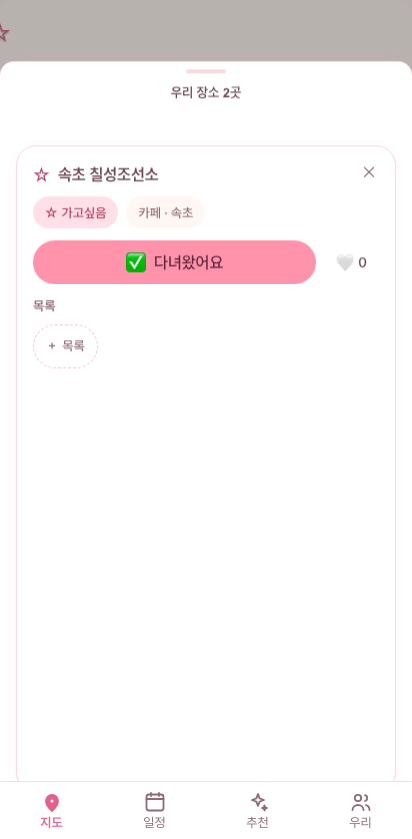
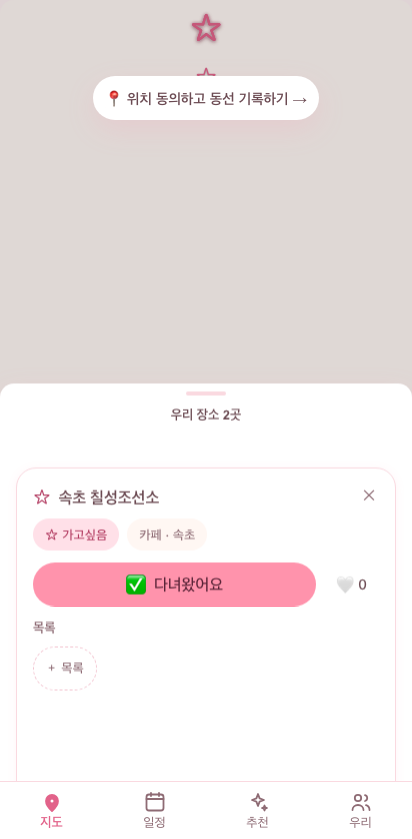
fix(map): 풀블리드 + 로고/축척 하단 + 내 위치 UX 전면 개선
- 풀블리드 라우트는 셸 safe-top 패딩 제거(상단 빈 띠 제거) — 오버레이가 자체 오프셋
- 네이버 로고/축척 BOTTOM(상단은 Dynamic Island·검색 오버레이에 가림), SDK 컨트롤
  z-index를 지도 안에 격리(시트 뚫고 뜨던 문제)
- 지도 하단 예약을 시트 실측(--map-bottom-reserve)으로 발행 — 탭바 이중계산으로
  지도~시트 사이 배경 공백이 생기던 버그 수정
- 내 위치: fitBounds(내위치+저장장소, 도 단위로 벌어짐) → 내 위치 중심 + 줌 15,
  버튼은 지도 우하단 고정 + 표준 크로스헤어 아이콘(📍 마커 혼동 제거)
- 앱 시작 기본 = 내 위치(denied만 제외), 네이티브는 WebView geolocation 대신
  bg-geo 원샷 위치 사용(origin 프롬프트/차단 우회)
- e2e 스냅샷 베이스라인 갱신(map-selected)

diff --git a/src/lib/geo/currentPosition.ts b/src/lib/geo/currentPosition.ts
@@ -24,10 +24,43 @@ function reasonForCode(code: number): 'denied' | 'unavailable' | 'timeout' {
   return 'unavailable'
 }
 
-export function getCurrentPosition(opts: Options = {}): Promise<GeoResult> {
-  const geo = resolveGeo(opts.geo)
-  if (!geo) return Promise.resolve({ ok: false, reason: 'unsupported' })
+// 네이티브(Capacitor): WebView navigator.geolocation은 origin 프롬프트/차단이 얽혀 신뢰 불가 →
+// 이미 설치된 bg-geo 플러그인의 원샷 getCurrentPosition을 쓴다(앱 권한 프롬프트와 자연 연동).
+// 실패/미지원이면 null을 돌려 웹 경로로 폴백.
+async function nativeCurrentPosition(timeoutMs: number): Promise<GeoResult | null> {
+  const { isNativePlatform } = await import('@/lib/platform')
+  if (!isNativePlatform()) return null
+  const { loadBgGeo } = await import('@/lib/journey/recorder')
+  const plugin = await loadBgGeo()
+  if (!plugin?.getCurrentPosition) return null
+  try {
+    const loc = await plugin.getCurrentPosition({
+      timeout: Math.max(1, Math.ceil(timeoutMs / 1000)), // bg-geo는 초 단위
+      maximumAge: 60_000,
+      desiredAccuracy: 40,
+      samples: 1,
+    })
+    return {
+      ok: true,
+      lat: loc.coords.latitude,
+      lng: loc.coords.longitude,
+      accuracy: loc.coords.accuracy ?? 50,
+    }
+  } catch (code) {
+    // bg-geo LocationError: 1=TIMEOUT, 그 외(0 UNKNOWN/2 NETWORK/499 CANCELLED)는 unavailable로 정규화.
+    return { ok: false, reason: code === 1 ? 'timeout' : 'unavailable' }
+  }
+}
+
+export async function getCurrentPosition(opts: Options = {}): Promise<GeoResult> {
   const timeout = opts.timeoutMs ?? 8000
+  // 테스트/호출측이 geo를 주입하면 그대로 웹 경로(순수성 유지). 미주입 시에만 네이티브 우선.
+  if (opts.geo === undefined) {
+    const native = await nativeCurrentPosition(timeout)
+    if (native) return native
+  }
+  const geo = resolveGeo(opts.geo)
+  if (!geo) return { ok: false, reason: 'unsupported' }
   return new Promise<GeoResult>((resolve) => {
     geo.getCurrentPosition(
       (pos) =>
@@ -62,7 +95,9 @@ export async function getPermissionState(
   }
 }
 
-/** 로드 시 자동 locate 여부 — granted일 때만(추가 프롬프트 회피, spec §3.5). 순수. */
+/** 로드 시 자동 locate 여부 — denied만 제외. 앱 시작 기본 화면 = 내 위치(요구사항).
+ * prompt 상태도 시도한다 — 지도 첫 화면은 위치 프롬프트가 맥락에 맞는 지점이고(§8 맥락 요청),
+ * 네이티브 앱은 동선 기록 흐름에서 이미 위치 권한 맥락을 가진다. 순수. */
 export function shouldAutoLocate(state: PermissionState): boolean {
-  return state === 'granted'
+  return state !== 'denied'
 }

diff --git a/src/components/map/NaverMap.tsx b/src/components/map/NaverMap.tsx
@@ -17,6 +17,8 @@ import styles from './NaverMap.module.css'
 // 마커는 색만이 아니라 모양/라벨로도 구분(§8 접근성): 둘 다 찜=♥(퍼플), 그 외=★(브랜드).
 // 가본 곳(채운 별+체크) 구분은 P3.
 const DEFAULT_CENTER = { lat: 37.5665, lng: 126.978 } // 서울 시청(빈 상태 기본 중심)
+// 내 위치 이동 시 줌 — 동네 수준(15). fitBounds(내위치+저장장소)는 도(道) 단위로 벌어져 금지.
+const LOCATE_ZOOM = 15
 
 type MarkerPlace = PlaceRow & { wish?: WishStatus }
 
@@ -112,11 +114,12 @@ export function NaverMap({
       mapRef.current = new nv.maps.Map(elRef.current, {
         center: new nv.maps.LatLng(DEFAULT_CENTER.lat, DEFAULT_CENTER.lng),
         zoom: 11,
-        // 로고는 ToS상 유지(필수). 컨트롤을 상단으로 옮겨 하단 시트와 안 겹치게(spec R1.3).
+        // 로고는 ToS상 유지(필수). 지도가 상태바 밑까지 풀블리드가 되면서 상단은 Dynamic Island·
+        // 검색 오버레이에 가리므로 하단으로 — mapWrap의 peek 인셋 덕에 peek 시트 바로 위에 보인다(research 01 §10).
         logoControl: true,
-        logoControlOptions: { position: nv.maps.Position.TOP_LEFT },
+        logoControlOptions: { position: nv.maps.Position.BOTTOM_LEFT },
         scaleControl: true,
-        scaleControlOptions: { position: nv.maps.Position.TOP_RIGHT },
+        scaleControlOptions: { position: nv.maps.Position.BOTTOM_RIGHT },
         mapDataControl: false,
       })
       setReady(true)
@@ -299,8 +302,9 @@ export function NaverMap({
     // eslint-disable-next-line react-hooks/exhaustive-deps
   }, [places, ready])
 
-  // 내 위치 self-dot(파란 점) + accuracy 원을 그리고 self+places로 fitBounds(spec §3.5).
-  // 마커/원은 1개만 — 위치/반경만 갱신(재생성 금지). places의 좌표 유효 핀까지 bounds에 포함.
+  // 내 위치 self-dot + accuracy 원을 그리고 '내 위치를 중심으로 가깝게'(LOCATE_ZOOM) 잡는다.
+  // ★ self+places fitBounds 금지 — 저장장소가 멀면(서울~강릉) 도 단위로 벌어져 내 위치가 안 보인다.
+  // 마커/원은 1개만 — 위치/반경만 갱신(재생성 금지).
   const showSelf = (lat: number, lng: number, accuracy: number) => {
     const nv = window.naver
     const map = mapRef.current
@@ -333,10 +337,8 @@ export function NaverMap({
         clickable: false,
         zIndex: 0,
       })
-    const pts = places.filter((p) => typeof p.lat === 'number' && typeof p.lng === 'number')
-    const b = new nv.maps.LatLngBounds(pos, pos)
-    for (const p of pts) b.extend(new nv.maps.LatLng(p.lat!, p.lng!))
-    map.fitBounds(b)
+    map.setCenter(pos)
+    map.setZoom(LOCATE_ZOOM)
   }
 
   // 초기 센터링 1/2 — granted일 때만 자동 locate(추가 프롬프트 금지, spec §3.5 / dossier 02 §4.6).
@@ -535,7 +537,14 @@ export function NaverMap({
         data-hidden={floatingHidden ? 'true' : undefined}
         tabIndex={floatingHidden ? -1 : 0}
       >
-        {isLocating ? <span className={styles.spinner} aria-hidden="true" /> : '📍'}
+        {isLocating ? (
+          <span className={styles.spinner} aria-hidden="true" />
+        ) : (
+          /* 범용 '내 위치' 크로스헤어 아이콘(지도앱 관례) — 이모지 핀(📍)은 장소 마커와 혼동 */
+          <svg viewBox="0 0 24 24" width="22" height="22" fill="currentColor" aria-hidden="true">
+            <path d="M12 8a4 4 0 1 0 0 8 4 4 0 0 0 0-8zm8.94 3A8.99 8.99 0 0 0 13 3.06V1h-2v2.06A8.99 8.99 0 0 0 3.06 11H1v2h2.06A8.99 8.99 0 0 0 11 20.94V23h2v-2.06A8.99 8.99 0 0 0 20.94 13H23v-2h-2.06zM12 19a7 7 0 1 1 0-14 7 7 0 0 1 0 14z" />
+          </svg>
+        )}
       </button>
       {locToast ? (
         <div

diff --git a/src/components/map/NaverMap.module.css b/src/components/map/NaverMap.module.css
@@ -5,6 +5,9 @@
   border-radius: var(--radius);
   overflow: hidden;
   background: var(--c-surface-2);
+  /* SDK 내부 컨트롤(로고/축척)의 z-index를 지도 안에 가둔다 — 없으면 루트 스태킹에서
+     시트(z:45)를 뚫고 로고가 리스트 카드 위에 떠 보인다. */
+  isolation: isolate;
 }
 
 /* ≥44px 투명 터치 타깃(HIG, ux §1). 시각 tip은 글리프 하단이 anchor(12,24)에 닿도록
@@ -129,12 +132,15 @@
   min-height: 0;
 }
 
-/* '내 위치' 플로팅 버튼 — 우하단, peek 시트 위(spec §3.5). 터치 타깃 ≥44px.
-   시트가 탭바 위에 앵커되므로 peek 밴드 + 탭바 높이만큼 띄워 peek에서 시트/탭바에 가리지 않게 한다. */
+/* '내 위치' 플로팅 버튼 — 지도 우하단 고정. mapHost 하단이 곧 시트 peek 상단이므로
+   sp-3만 띄우면 항상 지도 오른쪽 아래 모서리에 붙는다(토큰 재계산 금지 — 이중계산 이력). */
 .myLocBtn {
   position: absolute;
   right: var(--sp-3);
-  bottom: calc(var(--sheet-peek-h) + var(--tabbar-h) + var(--sp-3));
+  bottom: var(--sp-3);
+  display: flex;
+  align-items: center;
+  justify-content: center;
   width: 48px;
   height: 48px;
   border-radius: 50%;
@@ -192,7 +198,7 @@
 .locToast {
   position: absolute;
   left: 50%;
-  bottom: calc(var(--sheet-peek-h) + var(--tabbar-h) + var(--sp-6));
+  bottom: var(--sp-6);
   transform: translateX(-50%);
   max-width: 90%;
   background: var(--c-text);

diff --git a/src/pages/MapPage.module.css b/src/pages/MapPage.module.css
@@ -7,7 +7,9 @@
   flex: 1;
   display: flex;
   min-height: 0;
-  padding-bottom: calc(var(--sheet-peek-h) + var(--tabbar-h) + var(--safe-bottom));
+  /* 하단 예약은 PlaceSheet가 실측 발행한 --map-bottom-reserve가 정본(지도 하단 = 시트 peek 상단).
+     mapWrap은 이미 탭바 위에서 끝나므로 탭바/safe를 더하면 이중계산 → 공백. 폴백은 최초 페인트용. */
+  padding-bottom: var(--map-bottom-reserve, calc(var(--sheet-peek-h) + var(--tabbar-h)));
 }
 
 /* 지도 위 충돌 배너 — 검색 오버레이와 같은 z 레이어(시트 45 < 오버레이 50). */
@@ -25,7 +27,8 @@
    스스로 숨어 빈 div만 남으므로 레이아웃을 침범하지 않는다(pointer-events는 카드에만). */
 .feedOverlay {
   position: absolute;
-  top: calc(var(--safe-top) + var(--sp-2) + 48px);
+  /* 검색 오버레이(입력 44px + 패딩 2×sp-2) 아래로 — 48px 가정이 작아 CTA가 검색바를 뚫었다. */
+  top: calc(var(--safe-top) + var(--sp-2) + 60px + var(--sp-2));
   left: var(--sp-3);
   right: var(--sp-3);
   max-width: 480px;

diff --git a/src/__tests__/autoLocateGate.test.ts b/src/__tests__/autoLocateGate.test.ts
@@ -1,12 +1,12 @@
 import { describe, it, expect } from 'vitest'
 import { shouldAutoLocate } from '@/lib/geo/currentPosition'
 
-describe('shouldAutoLocate (로드 시 자동 locate 결정 — 추가 프롬프트 금지)', () => {
+describe('shouldAutoLocate (로드 시 자동 locate — 앱 시작 기본은 내 위치)', () => {
   it('granted면 자동 locate', () => {
     expect(shouldAutoLocate('granted')).toBe(true)
   })
-  it('prompt면 자동 안 함(사용자 📍 탭에서만)', () => {
-    expect(shouldAutoLocate('prompt')).toBe(false)
+  it('prompt도 자동 locate(지도 첫 화면 = 맥락에 맞는 권한 요청 지점)', () => {
+    expect(shouldAutoLocate('prompt')).toBe(true)
   })
   it('denied면 자동 안 함', () => {
     expect(shouldAutoLocate('denied')).toBe(false)

diff --git a/src/__tests__/naverMapControls.test.tsx b/src/__tests__/naverMapControls.test.tsx
@@ -71,14 +71,14 @@ describe('NaverMap 컨트롤 배치(spec R1.3)', () => {
     delete window.naver
   })
 
-  it('로고는 TOP_LEFT, 축척은 TOP_RIGHT로 두고 데이터 컨트롤은 끈다', async () => {
+  it('로고는 BOTTOM_LEFT, 축척은 BOTTOM_RIGHT(풀블리드 후 상단은 Dynamic Island·검색 오버레이에 가림) + 데이터 컨트롤 끔', async () => {
     render(<NaverMap places={[]} snap="peek" />)
     await waitFor(() => expect(mapSpy).toHaveBeenCalled())
     const options = mapSpy.mock.calls[0]![1] as Record<string, unknown>
     expect(options.logoControl).toBe(true)
-    expect(options.logoControlOptions).toEqual({ position: 1 })
+    expect(options.logoControlOptions).toEqual({ position: 10 })
     expect(options.scaleControl).toBe(true)
-    expect(options.scaleControlOptions).toEqual({ position: 3 })
+    expect(options.scaleControlOptions).toEqual({ position: 12 })
     expect(options.mapDataControl).toBe(false)
   })
 })

diff --git a/src/app/AppLayout.module.css b/src/app/AppLayout.module.css
@@ -22,6 +22,12 @@
   -webkit-overflow-scrolling: touch;
 }
 
+/* 풀블리드(지도) 라우트는 safe-top 패딩 제거 — 지도가 상태바 밑까지 깔리고,
+   지도 위 오버레이(검색바 등)가 자체적으로 safe-top을 오프셋한다. 아니면 상단에 빈 띠가 생긴다. */
+.content:has([data-fullbleed]) {
+  padding-top: 0;
+}
+
 /* 라우트 전환 크로스페이드 래퍼(R4) — .content의 flex 자식으로 동작해야 풀블리드(지도) 자식이
    flex:1로 높이를 얻는다(absolute-stack 금지). key=pathname 리마운트 시 페이드 인.
    reduce-motion은 tokens.css 전역 캡(animation-duration 0.001ms)으로 무력화 — JS 게이트 불필요. */

diff --git a/src/components/common/ScreenScaffold.tsx b/src/components/common/ScreenScaffold.tsx
@@ -15,7 +15,7 @@ type Props = {
 export function ScreenScaffold({ title, subtitle, children, testId, fullBleed = false }: Props) {
   if (fullBleed) {
     return (
-      <section className={styles.fullBleed} data-testid={testId} aria-label={title}>
+      <section className={styles.fullBleed} data-fullbleed data-testid={testId} aria-label={title}>
         {children}
       </section>
     )